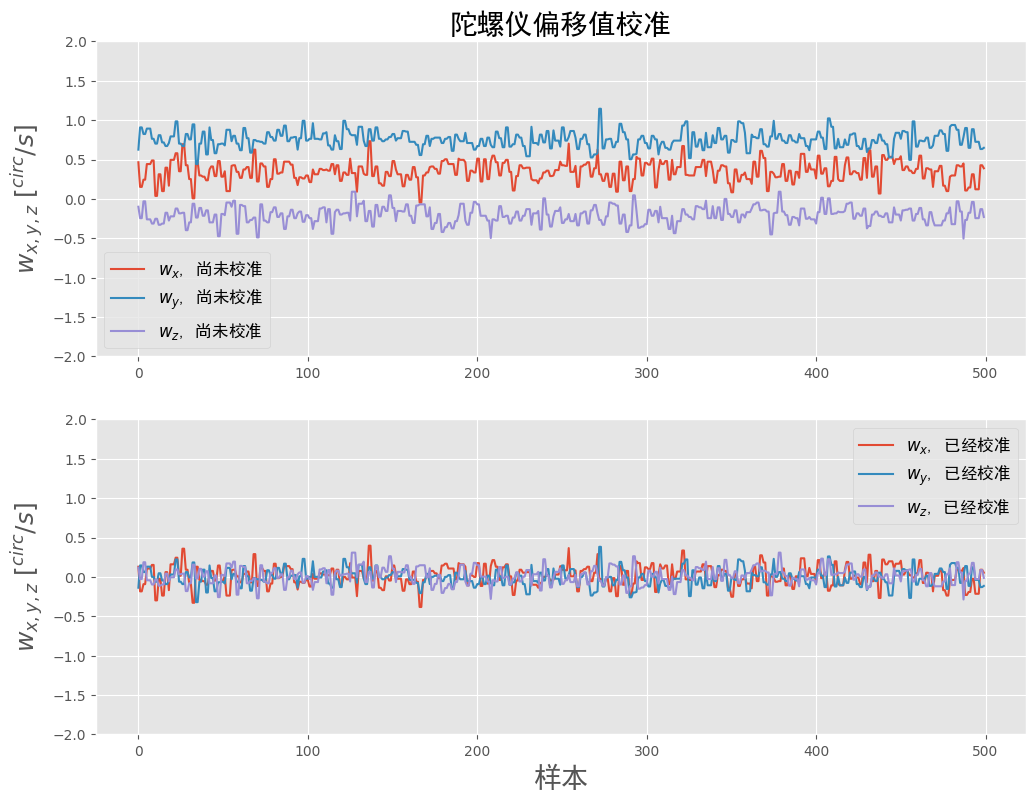
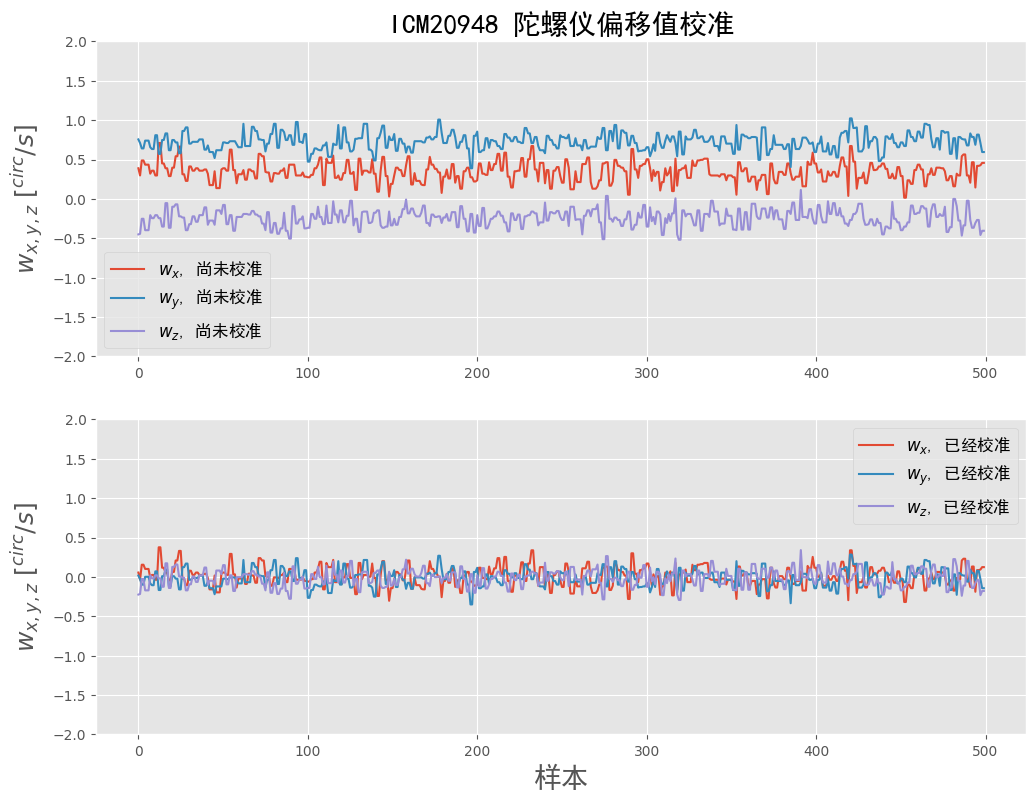
first

Changed region(s): [[0.1236, 0.125, 0.9575, 0.3125], [0.1236, 0.6875, 0.9575, 0.75], [0.3707, 0.0, 0.7104, 0.0625]]

diff --git a/_posts/2024-11-02-calibration.md b/_posts/2024-11-02-calibration.md
@@ -432,7 +432,7 @@ axs[1].set_ylabel("$w_{x,y,z}$ [$^{circ}/s$]", fontsize=18)
 axs[1].set_xlabel("样本", fontproperties=font)
 axs[0].set_ylim([-2, 2])
 axs[1].set_ylim([-2, 2])
-axs[0].set_title("陀螺仪偏移值校准", fontproperties=font)
+axs[0].set_title("ICM20948 陀螺仪偏移值校准", fontproperties=font)
 fig.show()
 ```
 ![Alt X](../assets/img/esp/gyro-calibration-1.png)
